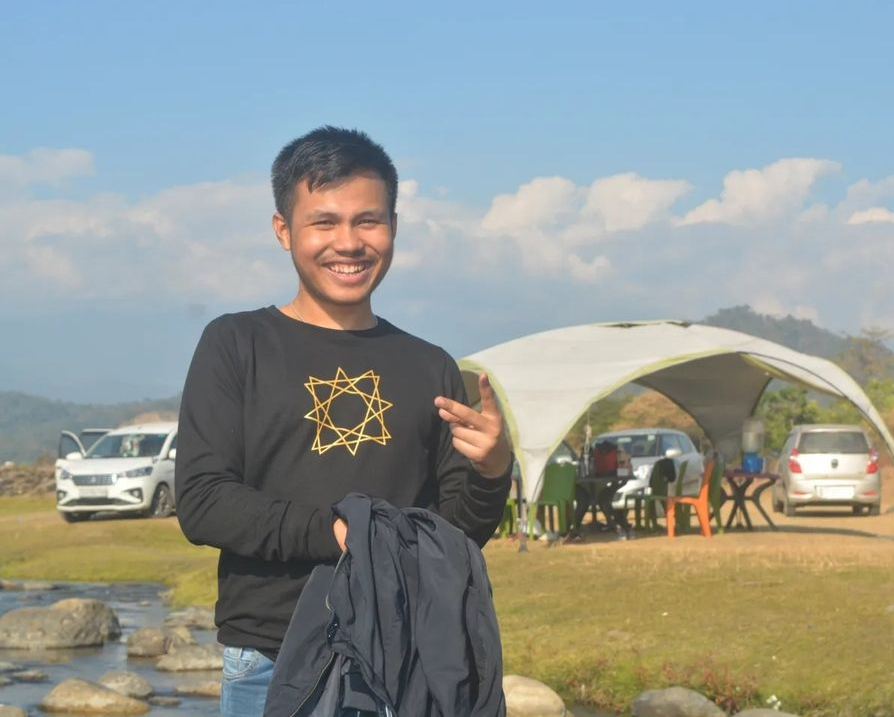
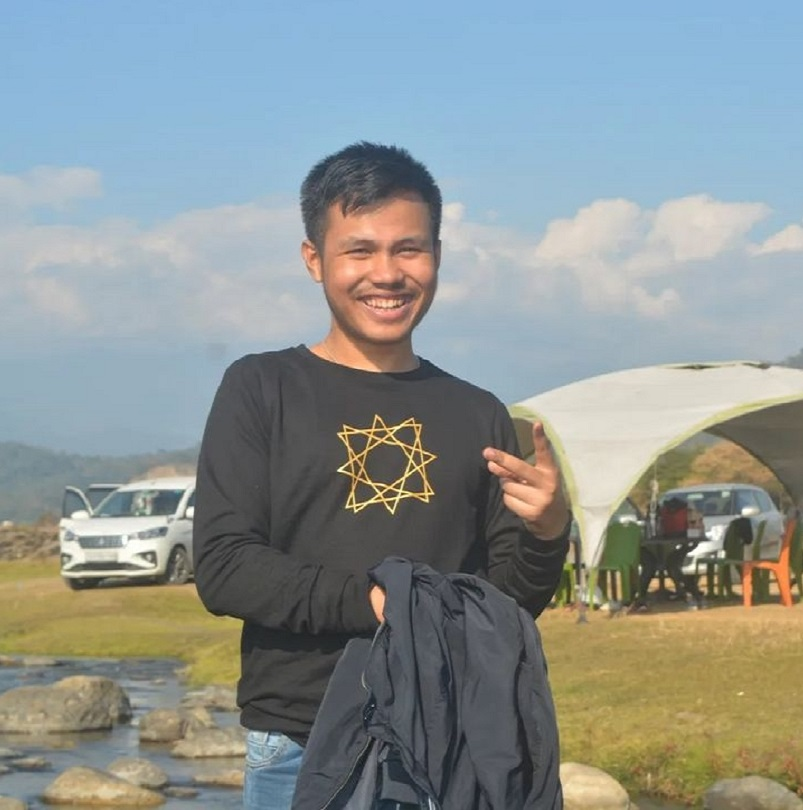
added member profile images

diff --git a/public/team.html b/public/team.html
@@ -113,30 +113,30 @@
                     <img src="/assets/member images/Arnab Sashi.jpg" alt="team">
                     <h3>Arnab Sashi<span>Chief Convenor</span><span>B.Tech 2nd year</span></h3>
                     <div class="social-links">
-                        <a href="#"><i class="fa fa-facebook"></i></a>
-                        <a href="#"><i class="fa fa-twitter"></i></a>
-                        <a href="#"><i class="fa fa-instagram"></i></a>
-                        <a href="#"><i class="fa fa-linkedin"></i></a>
+                        <!-- <a href="#"><i class="fa fa-facebook"></i></a> -->
+                        <a href="https://www.linkedin.com/in/arnab-sashi-393482265?utm_source=share&utm_campaign=share_via&utm_content=profile&utm_medium=android_app"><i class="fa fa-linkedin"></i></a>
+                        <a href="#"><i class="fa fa-envelope"></i></a>
+                        <a href="https://www.instagram.com/arnabsashi?igsh=dTQxMDNoa2Vlbnp2"><i class="fa fa-instagram"></i></a>
                     </div>
                 </div>
                 <div class="coreteam-item">
                     <img src="https://cdn.pixabay.com/photo/2018/11/13/21/43/instagram-3814049__340.png" alt="team">
-                    <h3>Your name <span>Convenor</span><span>B.Tech 2nd year</span></h3>
+                    <h3>Nayanmani Mashahary<span>Convenor</span><span>B.Tech 2nd year</span></h3>
                     <div class="social-links">
-                        <a href="#"><i class="fa fa-facebook"></i></a>
-                        <a href="#"><i class="fa fa-twitter"></i></a>
-                        <a href="#"><i class="fa fa-instagram"></i></a>
+                        <!-- <a href="#"><i class="fa fa-facebook"></i></a> -->
                         <a href="#"><i class="fa fa-linkedin"></i></a>
+                        <a href="#"><i class="fa fa-envelope"></i></a>
+                        <a href="#"><i class="fa fa-instagram"></i></a>
                     </div>
                 </div>
                 <div class="coreteam-item">
-                    <img src="https://cdn.pixabay.com/photo/2018/11/13/21/43/instagram-3814049__340.png" alt="team">
-                    <h3>Your name <span>Convenor</span><span>B.Tech 2nd year</span></h3>
+                    <img src="/assets/member images/Soumik dutta.jpg" alt="team">
+                    <h3>Soumik Dutta Choudhary<span>Convenor</span><span>B.Tech 2nd year</span></h3>
                     <div class="social-links">
-                        <a href="#"><i class="fa fa-facebook"></i></a>
-                        <a href="#"><i class="fa fa-twitter"></i></a>
-                        <a href="#"><i class="fa fa-instagram"></i></a>
+                        <!-- <a href="#"><i class="fa fa-facebook"></i></a> -->
                         <a href="#"><i class="fa fa-linkedin"></i></a>
+                        <a href="#"><i class="fa fa-envelope"></i></a>
+                        <a href="#"><i class="fa fa-instagram"></i></a>
                     </div>
 
                 </div>
